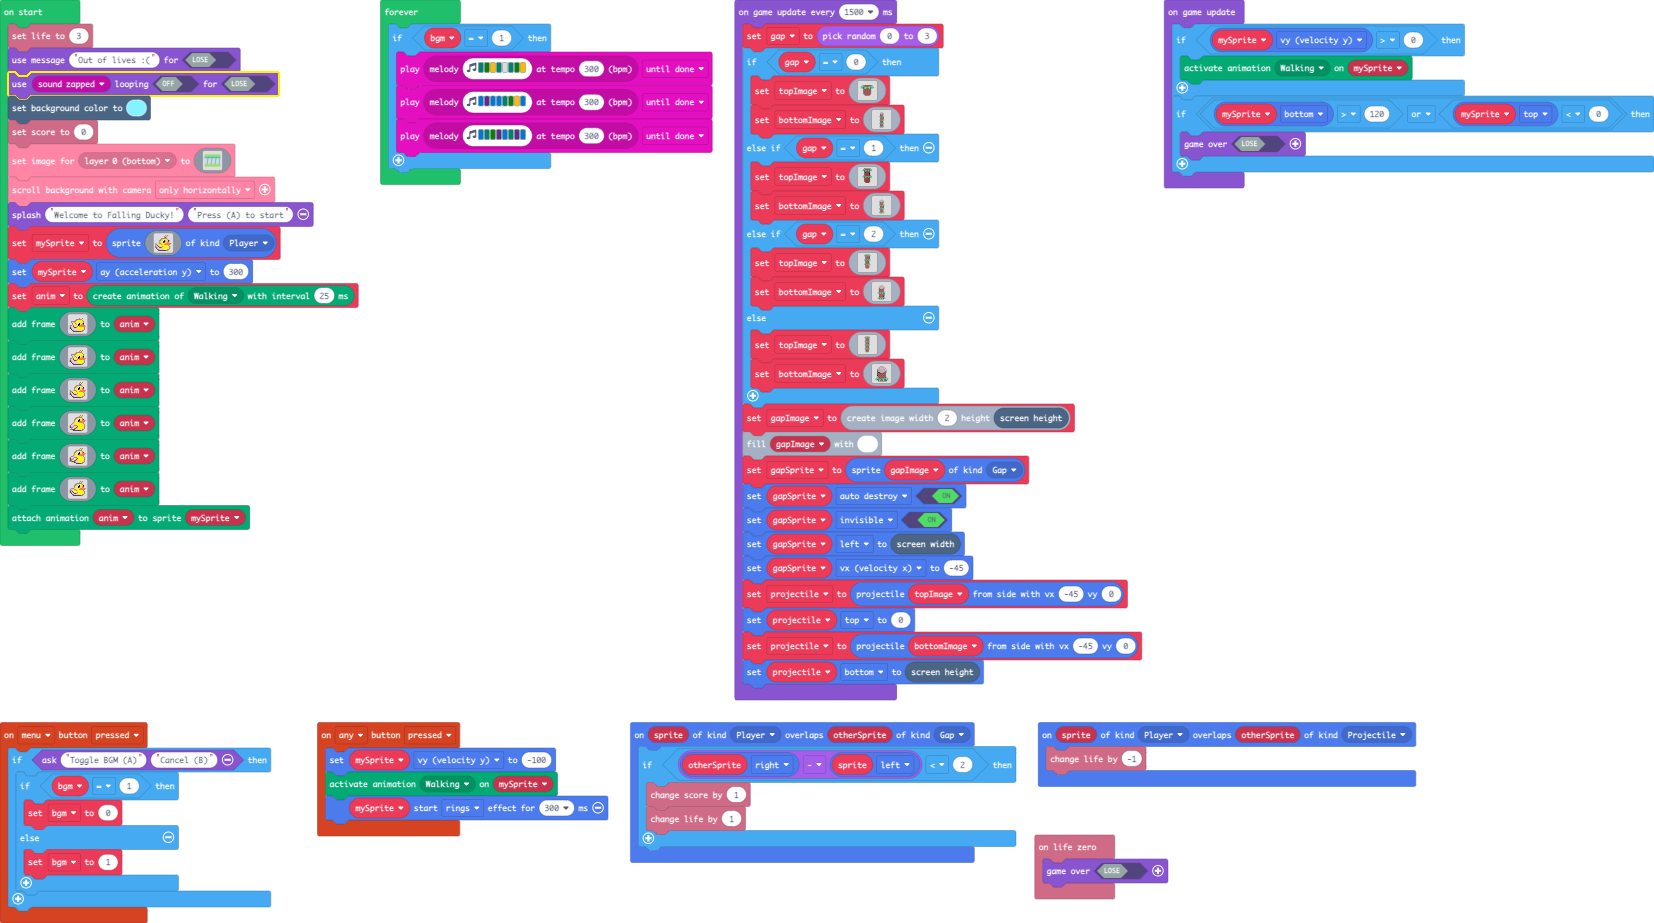
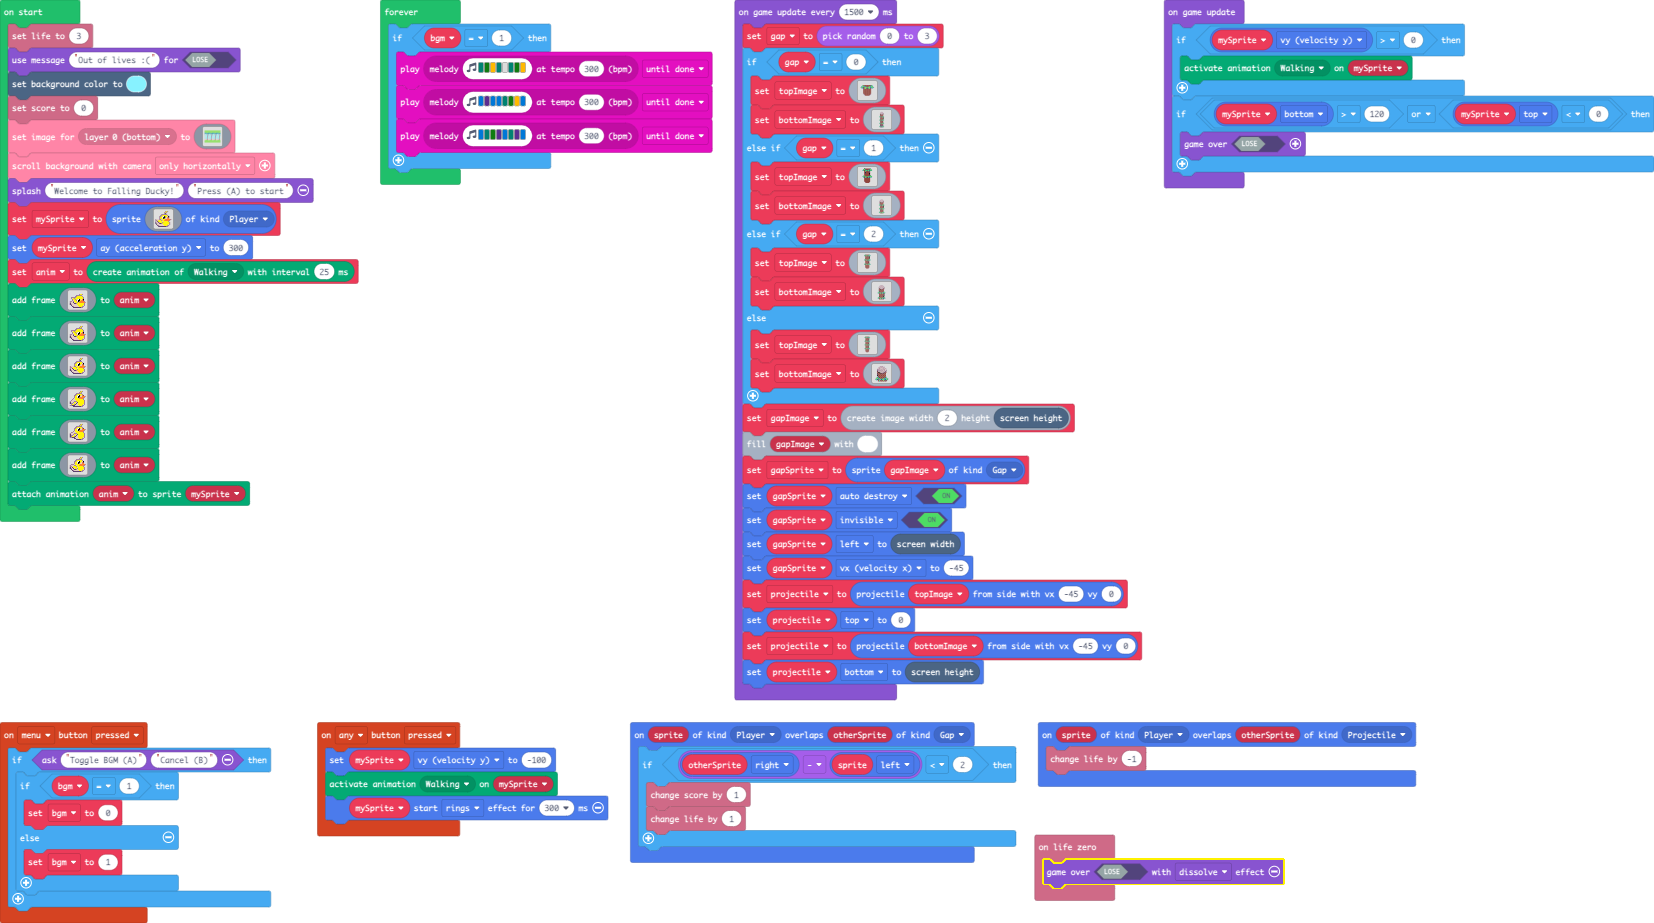
let's stick to visual effects then

Changed region(s): [[0.0, 0.0607, 0.2158, 0.6067], [0.6167, 0.9101, 0.8017, 0.9707]]

diff --git a/main.ts b/main.ts
@@ -30,7 +30,7 @@ controller.menu.onEvent(ControllerButtonEvent.Pressed, function () {
     }
 })
 info.onLifeZero(function () {
-    game.over(false)
+    game.over(false, effects.dissolve)
 })
 let projectile: Sprite = null
 let gapSprite: Sprite = null
@@ -42,7 +42,6 @@ let bgm = 0
 let mySprite: Sprite = null
 info.setLife(3)
 game.setGameOverMessage(false, "Out of lives :(")
-game.setGameOverPlayable(false, music.melodyPlayable(music.zapped), false)
 scene.setBackgroundColor(9)
 info.setScore(0)
 scroller.setLayerImage(scroller.BackgroundLayer.Layer0, img`
